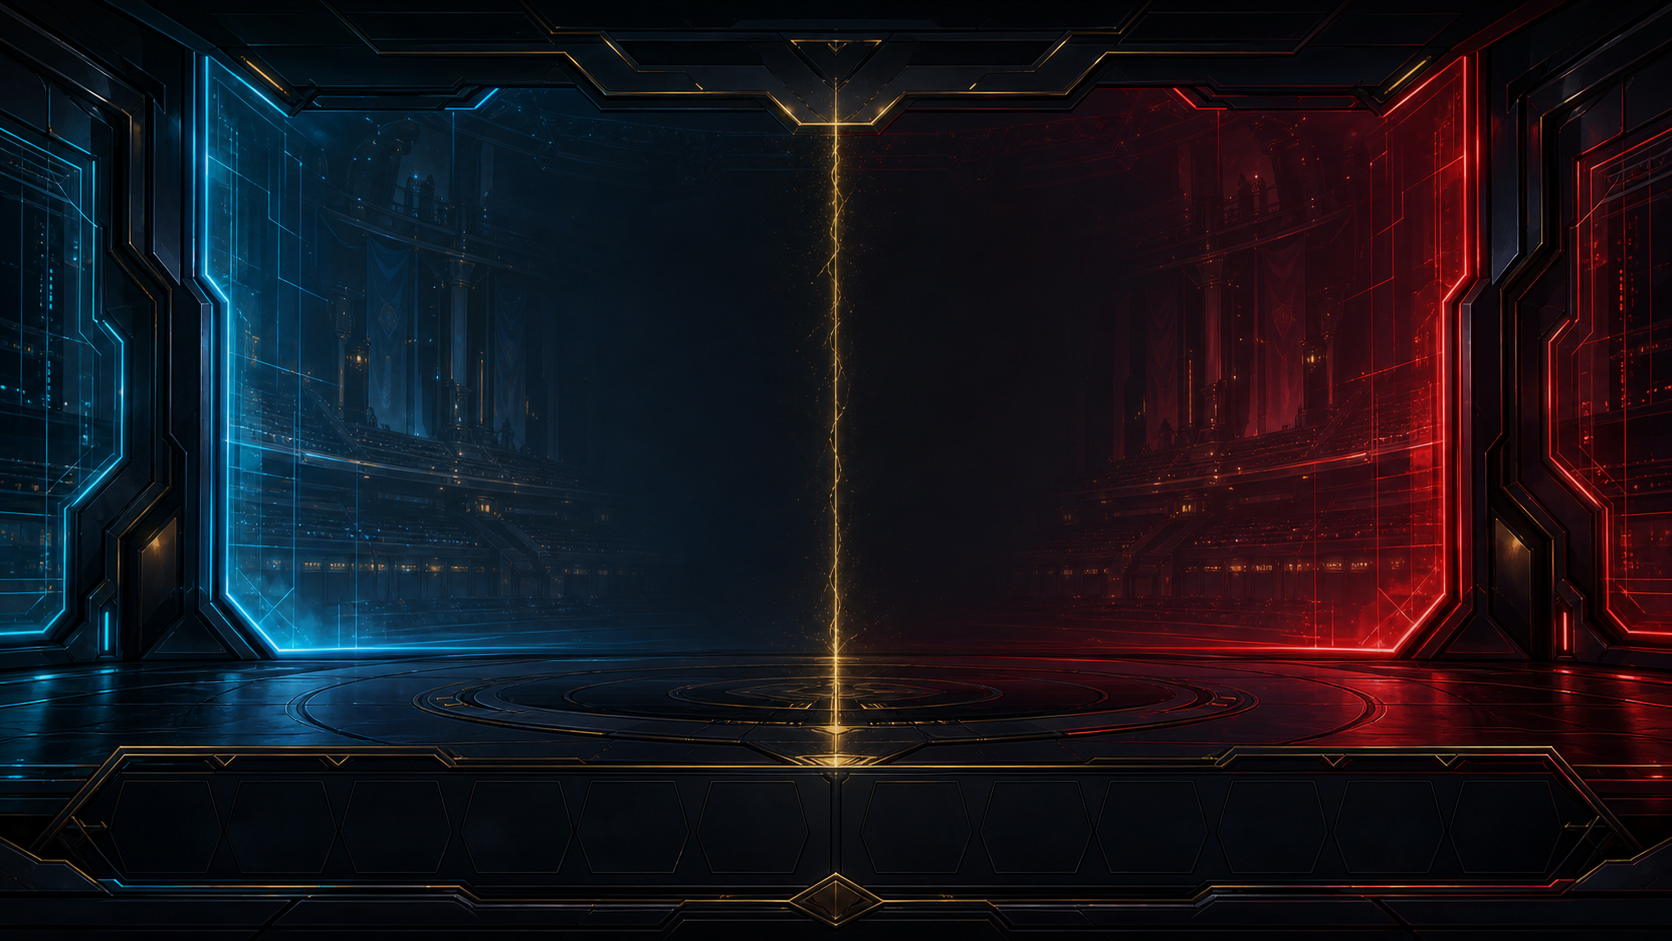
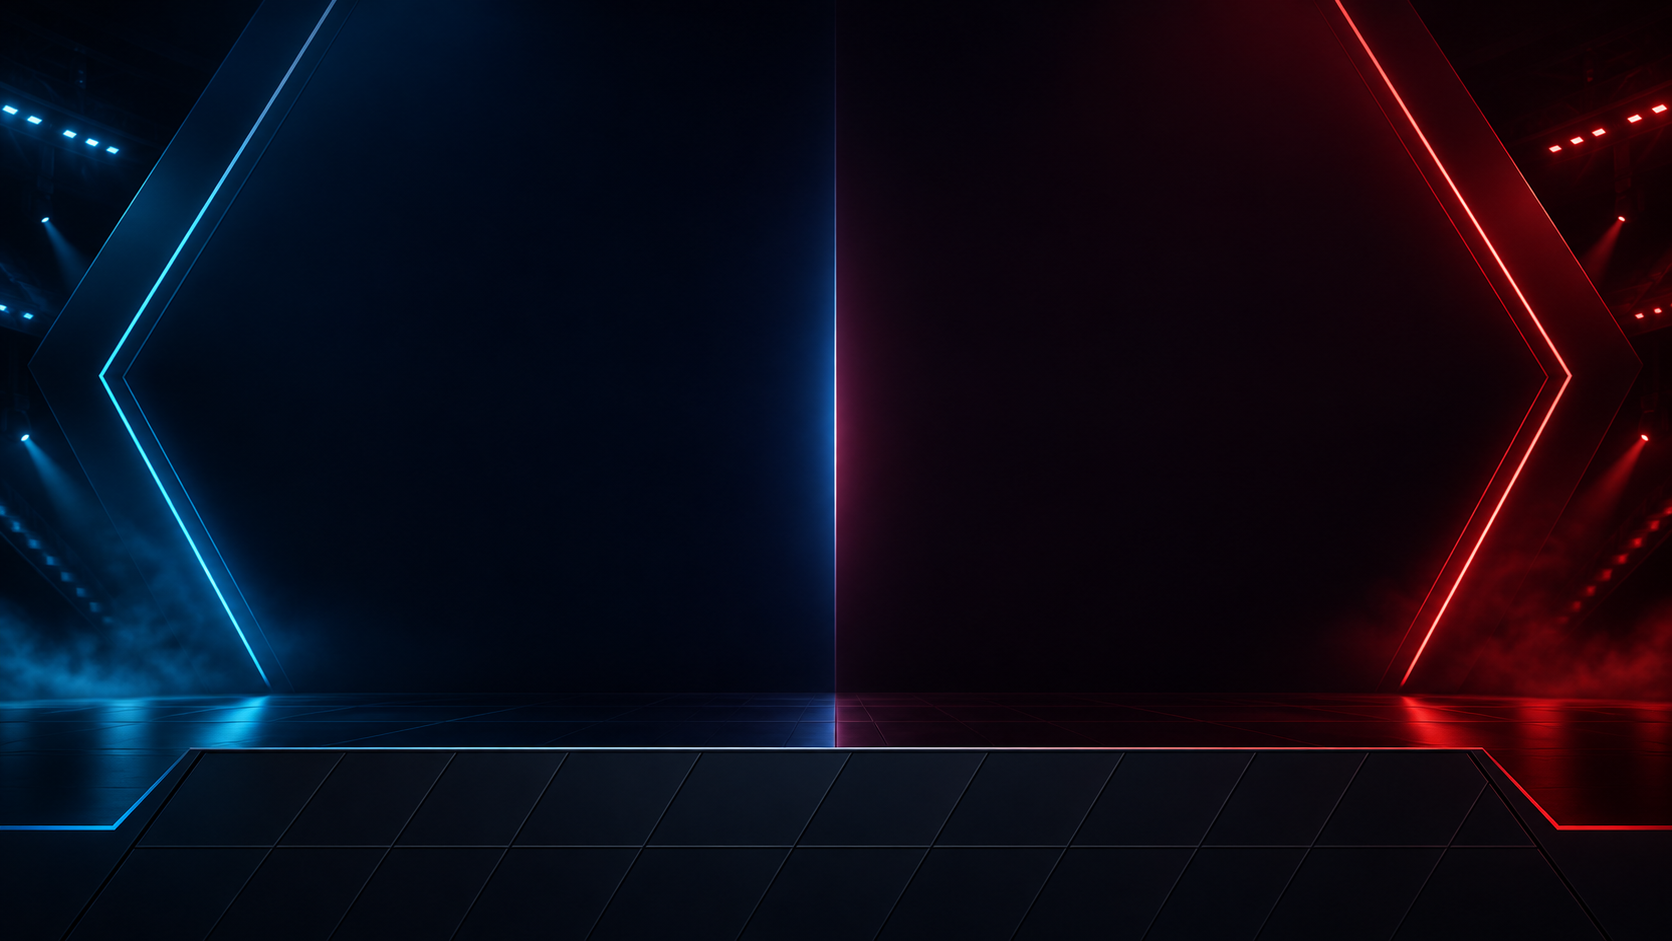
視認性優先のeスポーツUIへ再設計

diff --git a/aismash_unity/Assets/Scripts/UI/UITheme.cs b/aismash_unity/Assets/Scripts/UI/UITheme.cs
@@ -8,8 +8,8 @@ namespace PromptFighters.UI
 {
     public static class UITheme
     {
-        // ── アーケード格ゲー調パレット ──────────────────────────────
-        // 暗いスチール地に、ネオン/ゴールドのアクセントを乗せる。
+        // ── eスポーツ放送調パレット ────────────────────────────────
+        // 背景は低彩度・低コントラスト、情報と操作箇所だけを高彩度にする。
         public static readonly Color Steel      = new Color(0.06f, 0.07f, 0.10f, 0.98f); // フレーム地
         public static readonly Color SteelDark  = new Color(0.02f, 0.025f, 0.04f, 1.00f); // バー溝
         public static readonly Color SteelLight = new Color(0.20f, 0.23f, 0.30f, 1.00f); // ベベル明部
@@ -29,18 +29,12 @@ namespace PromptFighters.UI
         static Sprite _vgrad;
         static Sprite _titleBackground;
         static Sprite _lobbyBackground;
-        static Sprite _panelFrame;
-        static Sprite _buttonFrame;
         static Sprite _damageBurst;
 
         public static Sprite TitleBackground =>
             _titleBackground ??= Resources.Load<Sprite>("UI/Premium/title_background");
         public static Sprite LobbyBackground =>
             _lobbyBackground ??= Resources.Load<Sprite>("UI/Premium/lobby_background");
-        public static Sprite PanelFrame =>
-            _panelFrame ??= Resources.Load<Sprite>("UI/Premium/panel_frame");
-        public static Sprite ButtonFrame =>
-            _buttonFrame ??= Resources.Load<Sprite>("UI/Premium/button_frame");
         public static Sprite DamageBurst =>
             _damageBurst ??= Resources.Load<Sprite>("UI/Premium/damage_burst");
 
@@ -85,6 +79,12 @@ namespace PromptFighters.UI
             if (style.HasValue) text.fontStyle = style.Value;
             text.enableAutoSizing = false;
             text.textWrappingMode = TextWrappingModes.Normal;
+            // 背景画像やキャラクターの色に文字が埋もれないよう、全テキストへ
+            // TMPマテリアルの初期化順に依存しない暗色シャドウを共通適用する。
+            var shadow = text.GetComponent<Shadow>() ?? text.gameObject.AddComponent<Shadow>();
+            shadow.effectColor = new Color(0f, 0f, 0f, 0.82f);
+            shadow.effectDistance = new Vector2(1.5f, -1.5f);
+            shadow.useGraphicAlpha = true;
         }
 
         public static void ApplyAllInScene()
@@ -95,7 +95,7 @@ namespace PromptFighters.UI
 
         // GPT生成の背景を画面いっぱいに適用する。素材が未取り込みでも既存背景を維持する。
         public static void ApplyPremiumBackdrop(Image image, Sprite background, Color? tint = null,
-            bool animate = true)
+            bool animate = false)
         {
             if (image == null || background == null) return;
             image.sprite = background;
@@ -107,52 +107,113 @@ namespace PromptFighters.UI
                 image.gameObject.AddComponent<PremiumBackdropMotion>();
         }
 
-        // 既存の暗いパネル地は残し、その上へ生成した9-slice金属枠だけを重ねる。
+        // 既存の暗いパネル地は残し、四辺へ細いeスポーツ放送調ラインを重ねる。
+        // 太い装飾フレームは情報量を増やしてしまうためUI本体には使用しない。
         public static Image AddPremiumFrame(Transform parent, Color? tint = null, float inset = 0f)
         {
-            if (parent == null || PanelFrame == null) return null;
-            var go = new GameObject("PremiumFrame");
-            go.layer = parent.gameObject.layer;
-            var rt = go.AddComponent<RectTransform>();
-            rt.SetParent(parent, false);
+            if (parent == null) return null;
+
+            Color accent = tint ?? new Color(0.52f, 0.66f, 0.82f, 0.62f);
+            var existing = parent.Find("EsportsFrame");
+            GameObject go;
+            RectTransform rt;
+            Image image;
+            if (existing != null)
+            {
+                go = existing.gameObject;
+                rt = existing as RectTransform;
+                image = go.GetComponent<Image>();
+            }
+            else
+            {
+                go = new GameObject("EsportsFrame");
+                go.layer = parent.gameObject.layer;
+                rt = go.AddComponent<RectTransform>();
+                rt.SetParent(parent, false);
+                image = go.AddComponent<Image>();
+                image.sprite = Solid;
+                image.color = Color.clear;
+                image.raycastTarget = false;
+            }
+
             rt.anchorMin = Vector2.zero;
             rt.anchorMax = Vector2.one;
             rt.offsetMin = new Vector2(inset, inset);
             rt.offsetMax = new Vector2(-inset, -inset);
-            var image = go.AddComponent<Image>();
-            image.sprite = PanelFrame;
-            image.type = Image.Type.Sliced;
-            image.color = tint ?? Color.white;
-            image.raycastTarget = false;
-            go.transform.SetAsFirstSibling();
+            AddFrameLine(go.transform, "Top", new Vector2(0f, 1f), new Vector2(1f, 1f),
+                new Vector2(0f, -1.5f), new Vector2(0f, 3f), accent);
+            AddFrameLine(go.transform, "Bottom", Vector2.zero, new Vector2(1f, 0f),
+                new Vector2(0f, 0.5f), new Vector2(0f, 1f), new Color(accent.r, accent.g, accent.b, accent.a * 0.55f));
+            AddFrameLine(go.transform, "Left", Vector2.zero, new Vector2(0f, 1f),
+                new Vector2(0.5f, 0f), new Vector2(1f, 0f), new Color(accent.r, accent.g, accent.b, accent.a * 0.55f));
+            AddFrameLine(go.transform, "Right", new Vector2(1f, 0f), Vector2.one,
+                new Vector2(-0.5f, 0f), new Vector2(1f, 0f), new Color(accent.r, accent.g, accent.b, accent.a * 0.55f));
+            go.transform.SetAsLastSibling();
             return image;
         }
 
-        // 全ボタン共通の高品質9-slice、押下レスポンス、影を適用する。
+        static void AddFrameLine(Transform parent, string name, Vector2 anchorMin, Vector2 anchorMax,
+            Vector2 position, Vector2 size, Color color)
+        {
+            var child = parent.Find(name);
+            GameObject go;
+            RectTransform rt;
+            Image image;
+            if (child != null)
+            {
+                go = child.gameObject;
+                rt = child as RectTransform;
+                image = go.GetComponent<Image>();
+            }
+            else
+            {
+                go = new GameObject(name);
+                go.layer = parent.gameObject.layer;
+                rt = go.AddComponent<RectTransform>();
+                rt.SetParent(parent, false);
+                image = go.AddComponent<Image>();
+                image.sprite = Solid;
+                image.raycastTarget = false;
+            }
+
+            rt.anchorMin = anchorMin;
+            rt.anchorMax = anchorMax;
+            rt.anchoredPosition = position;
+            rt.sizeDelta = size;
+            image.color = color;
+        }
+
+        // 全ボタン共通のフラットな面、明確なアクセント、押下レスポンスを適用する。
         public static void StylePremiumButton(Button button, Color baseColor)
         {
             if (button == null) return;
             var image = button.GetComponent<Image>();
-            if (image != null && ButtonFrame != null)
+            if (image != null)
             {
-                image.sprite = ButtonFrame;
-                image.type = Image.Type.Sliced;
-                image.color = baseColor;
+                image.sprite = Solid;
+                image.type = Image.Type.Simple;
+                image.color = Color.Lerp(SteelDark, baseColor, 0.38f);
             }
+
+            AddButtonAccent(button.transform, "AccentLeft", baseColor,
+                Vector2.zero, new Vector2(0f, 1f), new Vector2(0f, 0f), new Vector2(5f, 0f));
+            AddButtonAccent(button.transform, "AccentBottom",
+                new Color(baseColor.r, baseColor.g, baseColor.b, 0.72f),
+                Vector2.zero, new Vector2(1f, 0f), new Vector2(0f, 0f), new Vector2(0f, 3f));
 
             var colors = button.colors;
             colors.normalColor = Color.white;
-            colors.highlightedColor = new Color(1.14f, 1.14f, 1.14f, 1f);
+            colors.highlightedColor = new Color(1.28f, 1.28f, 1.28f, 1f);
             colors.selectedColor = colors.highlightedColor;
-            colors.pressedColor = new Color(0.72f, 0.72f, 0.72f, 1f);
+            colors.pressedColor = new Color(0.70f, 0.70f, 0.70f, 1f);
             colors.disabledColor = new Color(0.34f, 0.34f, 0.38f, 0.66f);
             colors.colorMultiplier = 1f;
             colors.fadeDuration = 0.08f;
             button.colors = colors;
 
             var shadow = button.GetComponent<Shadow>() ?? button.gameObject.AddComponent<Shadow>();
-            shadow.effectColor = new Color(0f, 0f, 0f, 0.76f);
-            shadow.effectDistance = new Vector2(0f, -5f);
+            shadow.effectColor = new Color(0f, 0f, 0f, 0.52f);
+            shadow.effectDistance = new Vector2(0f, -2f);
             shadow.useGraphicAlpha = true;
 
             // タイトルの開始ボタンはPreBattlePanel側の常時パルスがscaleを管理する。
@@ -160,12 +221,45 @@ namespace PromptFighters.UI
                 button.gameObject.AddComponent<PremiumButtonMotion>();
         }
 
+        static void AddButtonAccent(Transform parent, string name, Color color,
+            Vector2 anchorMin, Vector2 anchorMax, Vector2 position, Vector2 size)
+        {
+            var child = parent.Find(name);
+            GameObject go;
+            RectTransform rt;
+            Image image;
+            if (child != null)
+            {
+                go = child.gameObject;
+                rt = child as RectTransform;
+                image = go.GetComponent<Image>();
+            }
+            else
+            {
+                go = new GameObject(name);
+                go.layer = parent.gameObject.layer;
+                rt = go.AddComponent<RectTransform>();
+                rt.SetParent(parent, false);
+                image = go.AddComponent<Image>();
+                image.sprite = Solid;
+                image.raycastTarget = false;
+                go.transform.SetAsFirstSibling();
+            }
+
+            rt.anchorMin = anchorMin;
+            rt.anchorMax = anchorMax;
+            rt.anchoredPosition = position;
+            rt.sizeDelta = size;
+            image.color = color;
+        }
+
         public static void StylePremiumField(Image image)
         {
-            if (image == null || ButtonFrame == null) return;
-            image.sprite = ButtonFrame;
-            image.type = Image.Type.Sliced;
-            image.color = new Color(0.48f, 0.54f, 0.66f, 0.92f);
+            if (image == null) return;
+            image.sprite = Solid;
+            image.type = Image.Type.Simple;
+            image.color = new Color(0.018f, 0.025f, 0.045f, 0.96f);
+            AddPremiumFrame(image.transform, new Color(0.34f, 0.50f, 0.70f, 0.62f));
         }
 
         // ── ランタイムスプライト ─────────────────────────────────────

diff --git a/aismash_unity/Assets/Scripts/UI/BattleHUD.cs b/aismash_unity/Assets/Scripts/UI/BattleHUD.cs
@@ -332,9 +332,9 @@ namespace PromptFighters.UI
             var barBg = MakeUI("BossBarBg", _bossBarRoot.transform);
             Anch(barBg, 0,0,1,1,  0,0,0,-NAME_H);
             var bossBarImage = barBg.AddComponent<Image>();
-            bossBarImage.sprite = UITheme.ButtonFrame ?? UITheme.VGradient;
-            bossBarImage.type = UITheme.ButtonFrame != null ? Image.Type.Sliced : Image.Type.Simple;
-            bossBarImage.color = new Color(0.52f, 0.24f, 0.25f, 1f);
+            bossBarImage.sprite = UITheme.Solid;
+            bossBarImage.type = Image.Type.Simple;
+            bossBarImage.color = new Color(0.12f, 0.025f, 0.035f, 0.96f);
 
             // 上端アクセント
             var accent = MakeUI("BossAccent", barBg.transform);
@@ -438,9 +438,9 @@ namespace PromptFighters.UI
             tcRt.sizeDelta = new Vector2(TIMER_W, TOTAL_H);
             tcRt.anchoredPosition = new Vector2(0f, -TOTAL_H * 0.5f);
             var timerBoxImage = tc.AddComponent<Image>();
-            timerBoxImage.sprite = UITheme.ButtonFrame ?? UITheme.VGradient;
-            timerBoxImage.type = UITheme.ButtonFrame != null ? Image.Type.Sliced : Image.Type.Simple;
-            timerBoxImage.color = new Color(0.72f, 0.58f, 0.27f, 1f);
+            timerBoxImage.sprite = UITheme.Solid;
+            timerBoxImage.type = Image.Type.Simple;
+            timerBoxImage.color = new Color(0.08f, 0.07f, 0.035f, 0.98f);
 
             // timer border lines (ゴールド枠 / 上下を2pxで強調)
             AddLine(tc.transform, "BdT", 0,1,1,1,   0,-2f,0,0,     TimerEdge);

diff --git a/aismash_unity/Assets/Scripts/GameFlow/PreBattlePanel.Helpers.cs b/aismash_unity/Assets/Scripts/GameFlow/PreBattlePanel.Helpers.cs
@@ -296,20 +296,11 @@ namespace PromptFighters.GameFlow
             return img;
         }
 
-        // アーケード調: 既存ボタンをメタリック平行四辺形にスタイルする（ネオン縁付き）
+        // eスポーツ放送調: 既存ボタンをフラット面＋役割色アクセントに統一する。
         static void StyleArcadeButton(Button btn, Color baseColor, float slant)
         {
             if (btn == null) return;
             PromptFighters.UI.UITheme.StylePremiumButton(btn, baseColor);
-            var img = btn.GetComponent<Image>();
-            if (img != null)
-            {
-                img.sprite = PromptFighters.UI.UITheme.ButtonFrame ?? PromptFighters.UI.UITheme.VGradient;
-                img.type = PromptFighters.UI.UITheme.ButtonFrame != null ? Image.Type.Sliced : Image.Type.Simple;
-                img.color = baseColor;
-                // 生成枠自体に角度があるため、従来より控えめなシアーにする。
-                PromptFighters.UI.UITheme.Skew(img, slant * 0.28f);
-            }
         }
 
         static Image AddImage(GameObject go, Color color)

diff --git a/aismash_unity/Assets/Scripts/GameFlow/PreBattlePanel.Reveal.cs b/aismash_unity/Assets/Scripts/GameFlow/PreBattlePanel.Reveal.cs
@@ -153,11 +153,12 @@ namespace PromptFighters.GameFlow
                 _revealSkillRow[i] = rt;
 
                 var plate = rowGo.AddComponent<Image>();
-                plate.sprite = PromptFighters.UI.UITheme.ButtonFrame ?? PromptFighters.UI.UITheme.VGradient;
-                plate.type = PromptFighters.UI.UITheme.ButtonFrame != null
-                    ? Image.Type.Sliced : Image.Type.Simple;
-                plate.color = new Color(0.36f, 0.40f, 0.52f, 0.96f);
+                plate.sprite = PromptFighters.UI.UITheme.Solid;
+                plate.type = Image.Type.Simple;
+                plate.color = new Color(0.025f, 0.034f, 0.058f, 0.96f);
                 plate.raycastTarget = false;
+                PromptFighters.UI.UITheme.AddPremiumFrame(rowGo.transform,
+                    new Color(0.34f, 0.50f, 0.72f, 0.58f));
 
                 MakeSlantBar(rowGo.transform, "SlotPlate", new Vector2(-168f, 0f), new Vector2(74f, 66f),
                     PromptFighters.UI.UITheme.Gold, 12f);

diff --git a/aismash_unity/Assets/Scripts/UI/CommentaryController.cs b/aismash_unity/Assets/Scripts/UI/CommentaryController.cs
@@ -142,11 +142,11 @@ namespace PromptFighters.UI
             plateRect.anchoredPosition = new Vector2(20f, 0f);
             plateRect.sizeDelta = new Vector2(184f, 50f);
             _livePlate = plateGo.AddComponent<Image>();
-            _livePlate.sprite = UITheme.ButtonFrame ?? UITheme.VGradient;
-            _livePlate.type = UITheme.ButtonFrame != null ? Image.Type.Sliced : Image.Type.Simple;
-            _livePlate.color = UITheme.Urgent;
+            _livePlate.sprite = UITheme.Solid;
+            _livePlate.type = Image.Type.Simple;
+            _livePlate.color = Color.Lerp(UITheme.SteelDark, UITheme.Urgent, 0.42f);
             _livePlate.raycastTarget = false;
-            UITheme.Skew(_livePlate, 12f);
+            UITheme.AddPremiumFrame(plateGo.transform, UITheme.Urgent);
 
             var plateLabelGo = new GameObject("LiveLabel");
             plateLabelGo.transform.SetParent(plateGo.transform, false);

diff --git a/aismash_unity/Assets/Editor/PremiumUISpriteImporter.cs b/aismash_unity/Assets/Editor/PremiumUISpriteImporter.cs
@@ -30,9 +30,6 @@ namespace PromptFighters.Editor
         {
             new ImportSpec("title_background.png", 100f, Vector4.zero, false),
             new ImportSpec("lobby_background.png", 100f, Vector4.zero, false),
-            // x=left, y=bottom, z=right, w=top
-            new ImportSpec("panel_frame.png", 100f, new Vector4(170f, 86f, 170f, 86f), true),
-            new ImportSpec("button_frame.png", 100f, new Vector4(165f, 92f, 165f, 92f), true),
             new ImportSpec("damage_burst.png", 256f, Vector4.zero, true),
         };
 

diff --git a/requirements.md b/requirements.md
@@ -2301,11 +2301,11 @@ APIキーの権限変更で whisper-1（音声認識）と gpt-4o-mini-tts（表
 - **復帰時の再デコードを廃止**: 対戦からロビーへ戻る際は保存済みキャラクターのJSONメタデータだけを再読込し、既にメモリ上にある`Idle1`を保存ディレクトリ単位で再利用する。新規・未読込キャラクターの`Idle1`は実際にロスターへ表示するときだけ非同期で読み込む。
 - **保存キャラ走査を1回に集約**: 固定ボスは同じ保存キャラクター走査結果から取り出し、ボス一覧構築のために全保存JSONと画像をもう一度読み直さない。
 
-### 25.79 全画面プレミアムUI・生成アート統合（実装済み・2026-07-29）
+### 25.79 全画面・高視認性eスポーツUI（実装済み・2026-07-29）
 
-- **一貫した対戦アートディレクション**: タイトル、ロビー、ステージ選択、生成、確認、結果画面を、青対赤の近未来コロシアムと黒・金属・金のフレームで統一する。GPT画像生成で作成した文字なしのタイトル背景、左右対称ロビー背景、汎用パネル枠、ボタン枠を使用し、ゲーム内文字はUnity側で描画して言語・解像度変更時の可読性を保つ。
-- **全画面への共通部品適用**: 操作説明、設定、キャラクター生成、生成進捗、技確認、チュートリアル、削除確認、戦闘HUD、実況帯、リザルトを含む各画面へ共通フレームと配色を適用する。青は1P、赤は2P、金は決定・重要操作として役割を固定し、従来の操作フローと画面構成は維持する。
-- **高品質なボタン操作感**: 汎用ボタンは9-slice対応の生成フレームを使用し、縦横比の異なるボタンでも角飾りを歪ませない。通常・選択・押下・無効状態の色変化、ポインター／ゲームパッド選択時の拡大、押下時の沈み込みを非スケール時間で再生する。既存のタイトル開始パルスとは競合させない。
-- **背景とパネルの演出**: タイトル・ロビー背景へ画面端が露出しない微細な呼吸アニメーションを加え、主要カードへ薄い影、発光、金属枠を重ねる。生成画像が読み込めない環境では既存グラデーションと従来UIへ自動的にフォールバックし、画面進行を止めない。
+- **視認性を最優先した対戦アートディレクション**: タイトル、ロビー、ステージ選択、生成、確認、結果画面を、低ノイズな黒紺の地と青対赤のeスポーツ放送グラフィックで統一する。GPT画像生成で作成した文字なしのタイトル会場背景と左右対称ロビー背景は、文字・カードを置く中央領域を暗く平坦に保つ。ゲーム内文字はUnity側で描画し、言語・解像度変更時の可読性を維持する。
+- **全画面への共通部品適用**: 操作説明、設定、キャラクター生成、生成進捗、技確認、チュートリアル、削除確認、戦闘HUD、実況帯、リザルトを含む各画面へ、半透明の暗色面と1〜3pxの細い境界線を適用する。青は1P、赤は2P、黄は決定・重要操作として役割を固定し、情報カード同士で装飾を競合させない。
+- **高視認性ボタンと文字**: 汎用ボタンは太い装飾枠を使わず、暗いフラット面、左5px・下3pxの役割色アクセント、明確な選択・押下・無効状態で構成する。ポインター／ゲームパッド選択時の拡大と押下時の沈み込みは維持する。文字にはTMPマテリアルへ依存しない軽い暗色シャドウを付け、明暗やキャラクター色に埋もれないようにする。
+- **静的で低ノイズな背景**: タイトル・ロビー背景はUIの読み取りを邪魔する呼吸拡縮を標準で行わない。主要カードは太い金属装飾・角飾り・過度な発光を廃止し、暗色面と細線だけで階層を示す。生成画像が読み込めない環境では既存グラデーションへ自動的にフォールバックし、画面進行を止めない。
 - **ダメージ表示の強化**: GPT生成の透過衝撃バーストをダメージ数値の背面へ表示し、出現時のオーバーシュート、回転、縮小、上昇、フェードを組み合わせる。数値には縁取りを付け、クリティカルは拡大・金色、ガードはシアンとして通常ダメージと瞬時に区別できるようにする。
-- **アセット取り込み品質**: 生成画像は文字を含めず、クロマキー除去と透明余白トリミングを行って`Resources/UI/Premium`へ保存する。背景はSprite、枠とボタンはBorder付きSingle Sprite、ダメージバーストは中央pivotとして、Bilinear、Clamp、MipMap無効、非圧縮をEditor importerで自動設定する。
+- **アセット取り込み品質**: 生成画像は文字・ロゴ・UI部品を含めず`Resources/UI/Premium`へ保存する。背景はSprite、ダメージバーストは中央pivotとして、Bilinear、Clamp、MipMap無効、非圧縮をEditor importerで自動設定する。
